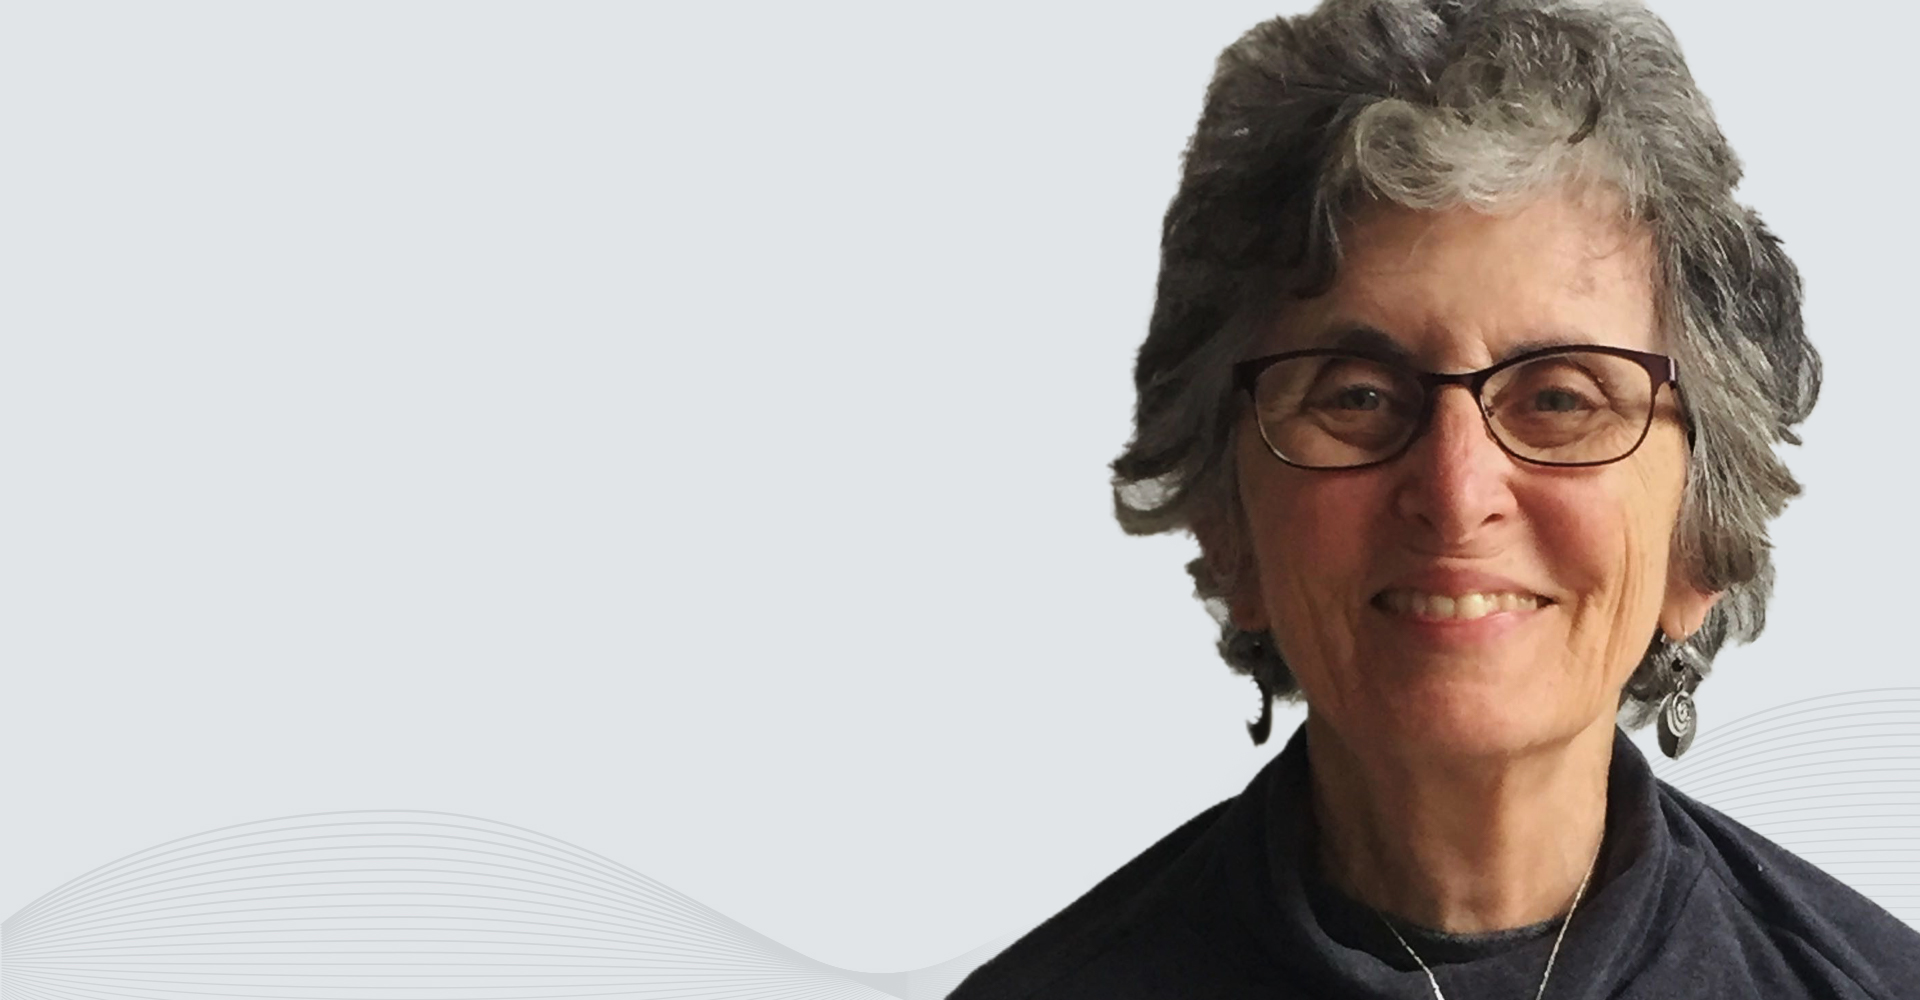
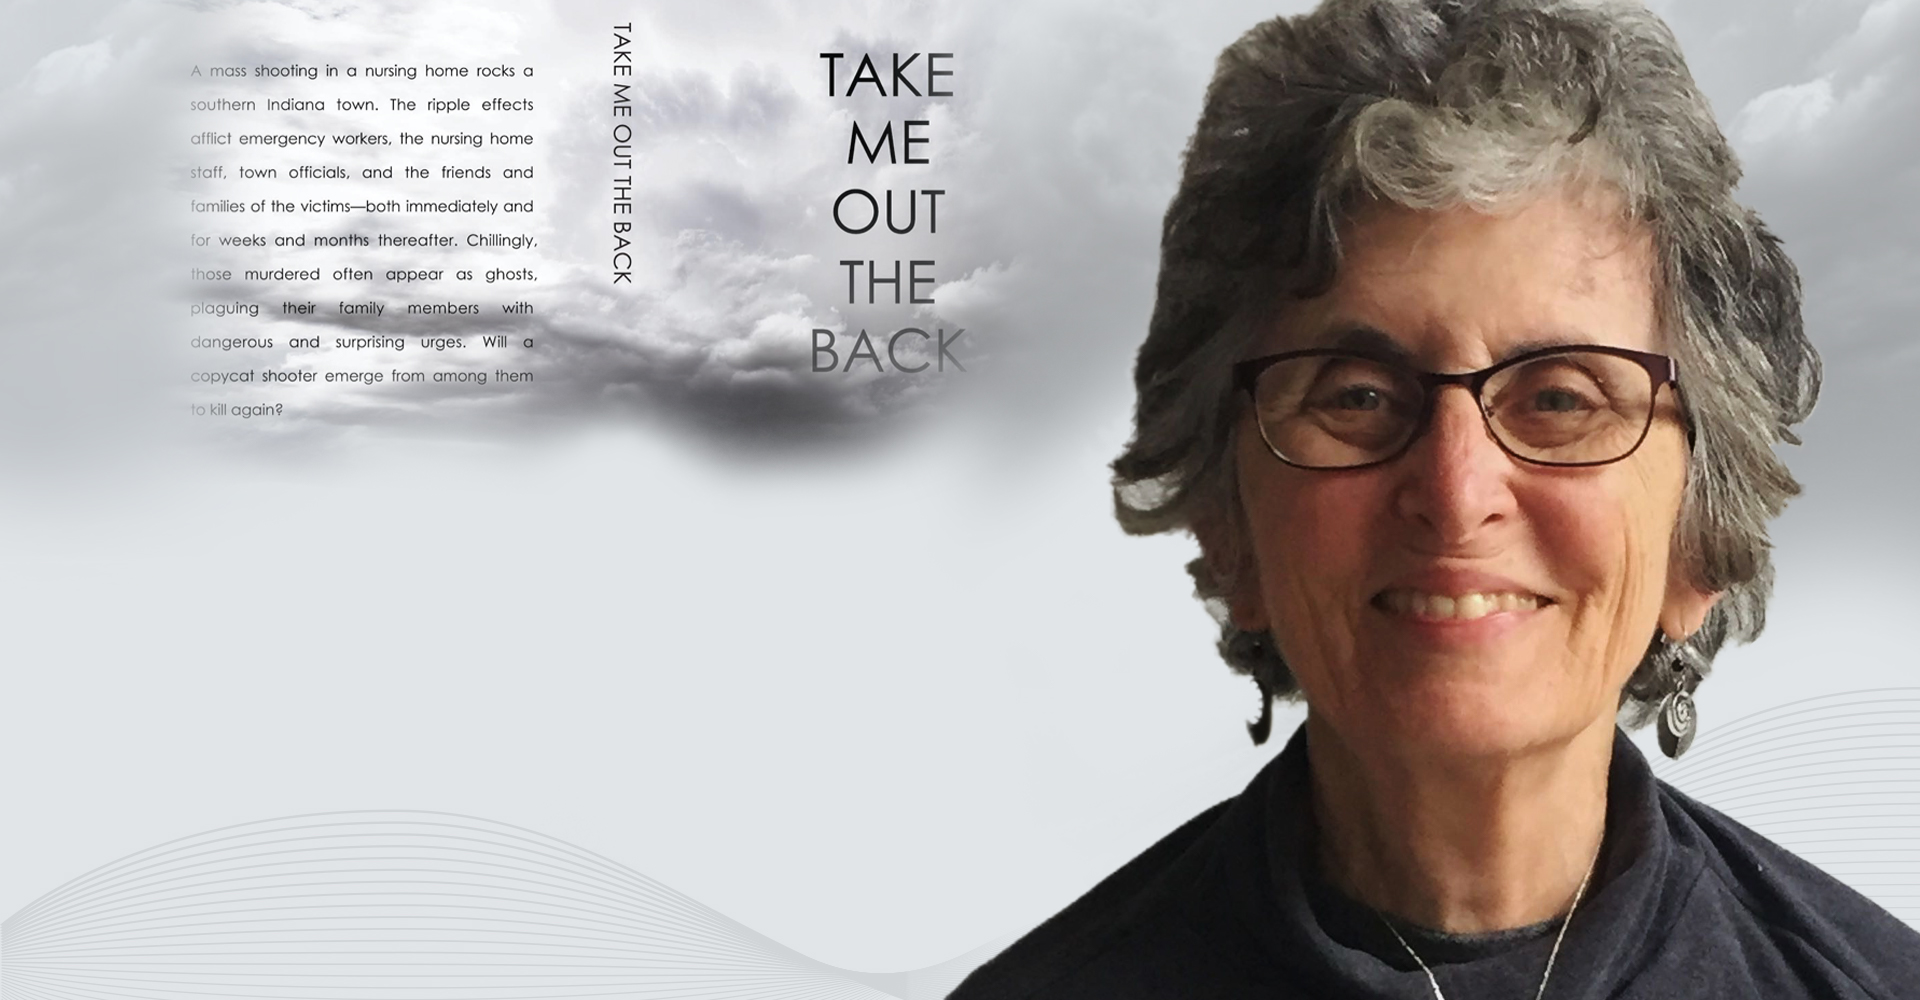
updated to hero img and button

diff --git a/index.html b/index.html
@@ -21,6 +21,7 @@
             <link rel="stylesheet" href="assets/css/slick.css">
             <link rel="stylesheet" href="assets/css/nice-select.css">
             <link rel="stylesheet" href="assets/css/style.css">
+            <link rel="stylesheet" href="assets/css/custom.css">
    </head>
 
    <body>
@@ -94,15 +95,13 @@
                 <div class="single-slider slider-height d-flex align-items-center">
                     <div class="container">
                         <div class="row">
-                            <div class="col-xl-6 col-lg-6 col-md-8">
+                            <div class="cg-text col-xl-6 col-lg-6 col-md-8">
                                 <div class="hero__caption">
-                                    <span data-animation="fadeInUp" data-delay=".4s">Author</span>
-                                    <h1 data-animation="fadeInUp" data-delay=".6s">Carolyn Geduld</h1>
-                                    <P data-animation="fadeInUp" data-delay=".8s" >I am a mental health professional in Bloomington, Indiana, originally from NewYork City. I have degrees from The City College of New York and Indiana University. I write psychological thrillers for Adults, sometimes injected with humor.</P>
+                                    <h2 data-animation="fadeInUp" data-delay=".6s">Author Carolyn Geduld</h2>
+                                    <P data-animation="fadeInUp" data-delay=".8s" >I am a mental health professional in Bloomington, Indiana, originally from New York City. I have degrees from The City College of New York and Indiana University. I write psychological thrillers for Adults, sometimes injected with humor.</P>
                                     <!-- Hero-btn -->
                                     <div class="hero__btn">
-                                        <a href="industries.html" class="btn hero-btn"  data-animation="fadeInLeft" data-delay=".8s">Learn More</a>
-                                        <a href="industries.html" class="btn border-btn ml-15" data-animation="fadeInRight" data-delay="1.0s">Hire Me</a>
+                                        <a href="industries.html" class="btn hero-btn"  data-animation="fadeInLeft" data-delay=".8s">Read an excerpt from my novel: <em>Take Me Out the Back</em></a>
                                     </div>
                                 </div>
                             </div>

diff --git a/assets/css/custom.css b/assets/css/custom.css
@@ -1,0 +1,3 @@
+.cg-text {
+    margin-top: 224px;
+}
